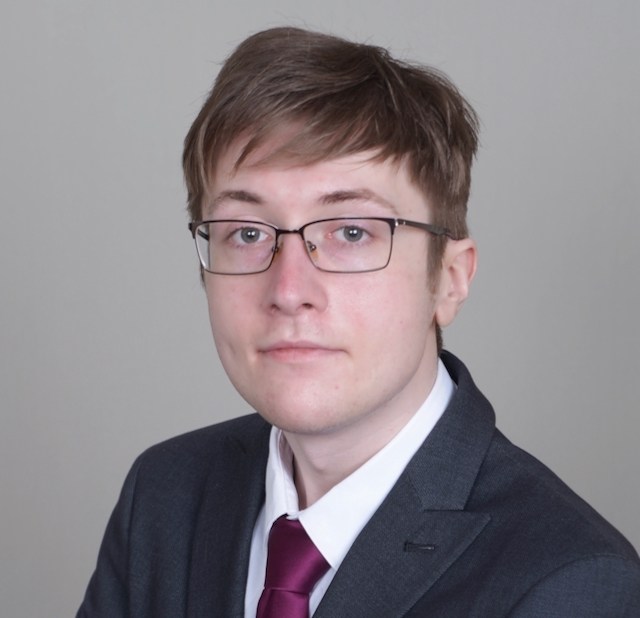
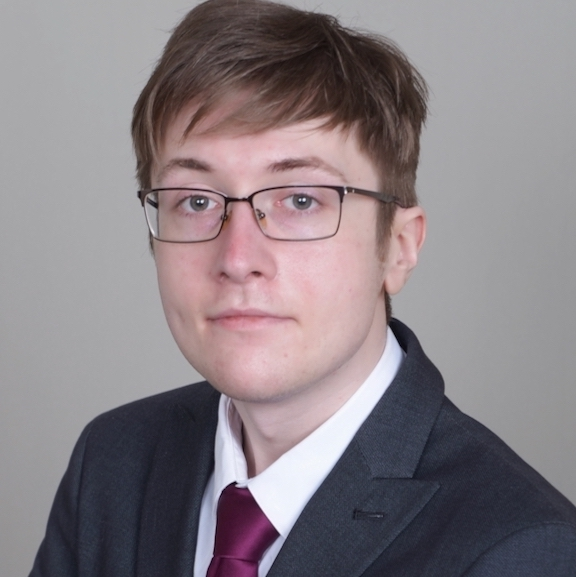
Cleaned up and further styled the aboutus page.

diff --git a/src/main/resources/templates/about/aboutus.html b/src/main/resources/templates/about/aboutus.html
@@ -9,21 +9,18 @@
         <p>FilmSage was designed and built by a team in less than a month.</p>
         <p>We are a team of four developers who joined together to build a full stack web application. Our focus was to
         deliver a full-featured modern experience leveraging the Spring Boot framework.</p>
-        <p>You can contact the team at team.filmsage@gmail.com</p>
+        <p>You can contact the team at <a href="mailto:team.filmsage@gmail.com">team.filmsage@gmail.com</a></p>
     </div>
     <h2 style="text-align: center">Our Team</h2>
     <div class="row justify-content-center">
-        <div class="col-sm col-md-6">
-            <div class="card mb-2">
-                <img class="mx-auto d-block mt-3" th:src="@{~/img/James.jpeg}" alt="James" style="width: 50%">
+        <div class="col-sm col-md-6 my-2">
+            <div class="au-cards h-100">
+                <img class="mx-auto d-block mt-3 au-headshots" th:src="@{~/img/James.jpeg}" alt="James">
                 <div class="container">
                     <h2 class="text-center">James Wienecke</h2>
                     <p class="title text-center">Junior Software Engineer</p>
-                    <p>
-                        James is an eager developer and cooperator with a no person left behind strategy. A fast learner
-                        with a community-focused mindset, he planned, organized, and built much of the back end with Spring Boot and MySQL. Many long nights
-                        staring at dokku logs and pull requests were required to bring this team's web application to life.
-                    </p>
+                    <p>James is an eager developer and team player. He knows Java, Spring Boot, MySQL, JavaScript/TypeScript, React.</p>
+                    <p>A fast learner with a community-focused mindset, he planned, organized, and built much of the back end. He also fulfilled the role of DevOps on this project.</p>
 
                     <div class="wrapper d-flex">
                         <div class="mr-4">
@@ -44,9 +41,9 @@
             </div>
         </div>
 
-        <div class="col-sm col-md-6">
-            <div class="card mb-2">
-                <img class="mx-auto d-block mt-3" th:src="@{~/img/Eva Brechum.jpg}" alt="Eva" style="width: 50%">
+        <div class="col-sm col-md-6 my-2">
+            <div class="au-cards h-100">
+                <img class="mx-auto d-block mt-3 au-headshots" th:src="@{~/img/Eva Brechum.jpg}" alt="Eva">
                 <div class="container">
                     <h2 class="text-center">Eva Brechum</h2>
                     <p class="title text-center">Junior Software Engineer</p>
@@ -73,9 +70,9 @@
             </div>
         </div>
 
-        <div class="col-sm col-md-6">
-            <div class="card mb-2">
-                <img class="mx-auto d-block mt-3" th:src="@{~/img/Alfonso.jpg}" alt="Alfonso" style="width: 50%">
+        <div class="col-sm col-md-6 my-2">
+            <div class="au-cards h-100">
+                <img class="mx-auto d-block mt-3 au-headshots" th:src="@{~/img/Alfonso.jpg}" alt="Alfonso">
                 <div class="container">
                     <h2 class="text-center">Alfonso Carrillo</h2>
                     <p class="title text-center">Junior Software Engineer</p>
@@ -101,9 +98,9 @@
             </div>
         </div>
 
-        <div class="col-sm col-md-6">
-            <div class="card mb-2">
-                <img class="mx-auto d-block mt-3"  th:src="@{~/img/Sabastain-PP.jpg}" alt="Sabastain" style="width: 50%">
+        <div class="col-sm col-md-6 my-2">
+            <div class="au-cards h-100">
+                <img class="mx-auto d-block mt-3 au-headshots"  th:src="@{~/img/Sabastain-PP.jpg}" alt="Sabastain">
                 <div class="container">
                     <h2 class="text-center">Sabastain Wakoyi</h2>
                     <p class="title text-center">Junior Software Engineer</p>

diff --git a/src/main/resources/static/css/main.css b/src/main/resources/static/css/main.css
@@ -53,3 +53,17 @@ a {
     margin-left: auto;
     margin-right: auto;
 }
+
+.au-headshots {
+    max-height: 150px;
+    max-width: 150px;
+    height: 150px;
+    width: 150px;
+    border-radius: 50%;
+    object-fit: cover;
+}
+
+.au-cards {
+    background-color: white;
+    padding: 2rem;
+}
